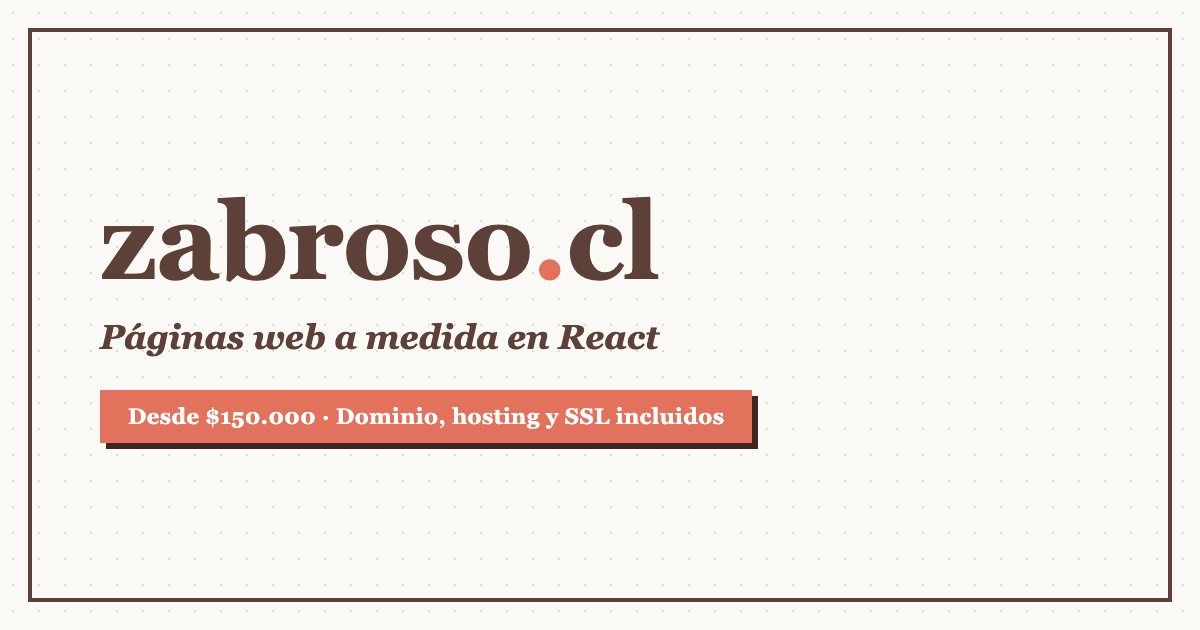
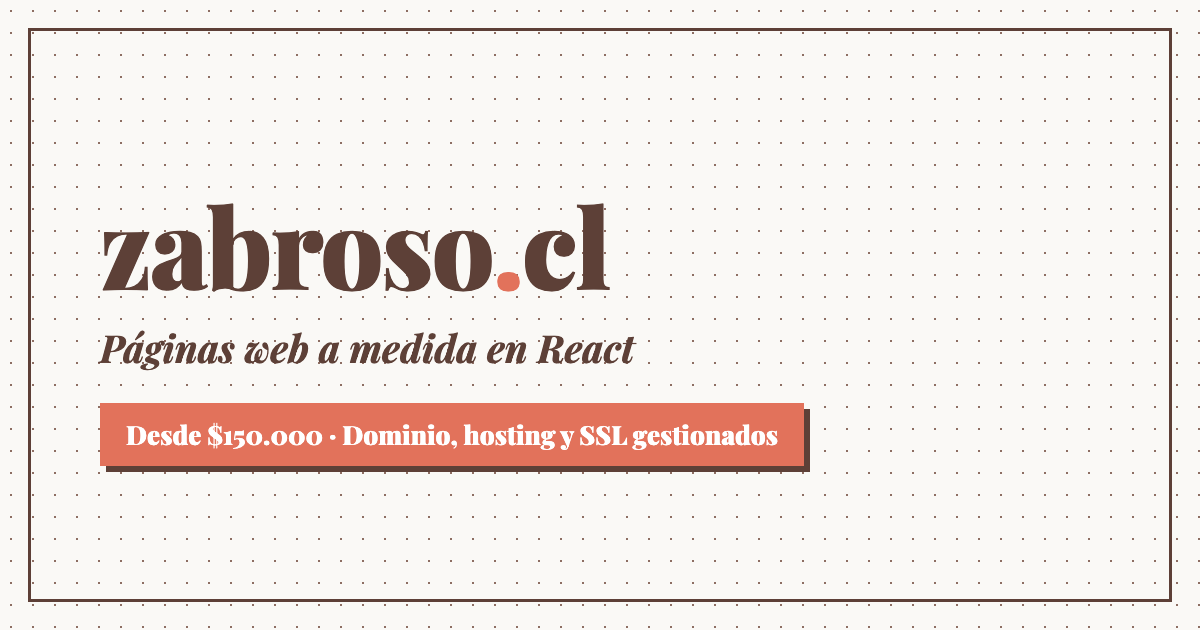
fix(copy): dominio, hosting y SSL son gestionados, no incluidos en el precio
El dominio lo compra y renueva el cliente; el hosting en Cloudflare
Pages y el SSL son gratuitos. Se corrige hero, meta description,
JSON-LD, /sobre/, llms.txt y la imagen OG.

Changed region(s): [[0.0617, 0.5127, 0.6783, 0.754], [0.0617, 0.3016, 0.555, 0.4825]]

diff --git a/index.html b/index.html
@@ -9,7 +9,7 @@
 
     <!-- ── PRIMARY SEO ── -->
     <title>Páginas Web a Medida desde $150.000 | zabroso.cl</title>
-    <meta name="description" content="Desarrollo de páginas web a medida en React, sin plantillas ni builders. Planes desde $150.000, con dominio, hosting y SSL gestionados. Cotiza tu web en Chile.">
+    <meta name="description" content="Páginas web a medida en React, sin plantillas. Planes desde $150.000; gestionamos dominio, hosting y SSL (el dominio lo paga el cliente). Cotiza en Chile.">
     <meta name="keywords" content="desarrollo web Chile, páginas web a medida, landing page Chile, diseño web React, precio página web Chile, Pablo Zabroso">
     <meta name="author" content="Pablo Zabroso">
     <meta name="robots" content="index, follow, max-image-preview:large, max-snippet:-1">
@@ -74,7 +74,7 @@
           "@type": "ProfessionalService",
           "@id": "https://zabroso.cl/#business",
           "name": "zabroso.cl",
-          "description": "Desarrollo de páginas web a medida en React, sin plantillas ni builders. Incluye dominio, hosting y SSL gestionados.",
+          "description": "Desarrollo de páginas web a medida en React, sin plantillas ni builders. Gestión de dominio, hosting y SSL incluida; la compra del dominio la paga el cliente.",
           "url": "https://zabroso.cl/",
           "email": "pablo@zabroso.cl",
           "telephone": "+56949360955",

diff --git a/src/components/Hero.tsx b/src/components/Hero.tsx
@@ -36,7 +36,7 @@ export default function Hero() {
 
           <ul className="rv text-[.85rem] text-muted leading-[1.6] mb-6 max-w-[480px] space-y-1 list-disc pl-5" style={{ transitionDelay: '.14s' }}>
             <li>Páginas web a medida en React, sin plantillas ni builders.</li>
-            <li>Desde $150.000, con dominio, hosting y SSL incluidos.</li>
+            <li>Desde $150.000. Gestionamos dominio, hosting y SSL; la compra del dominio la paga el cliente.</li>
             <li>Garantía de 6 meses, para pymes y profesionales en todo Chile.</li>
           </ul>
 

diff --git a/src/sobre/App.tsx b/src/sobre/App.tsx
@@ -25,7 +25,7 @@ const principios = [
   {
     icon: '💬',
     name: 'Cero responsabilidad técnica para ti',
-    desc: 'Tú validas diseño y contenido. Código, configuración, dominio, SSL y publicación corren por mi cuenta.',
+    desc: 'Tú validas diseño y contenido. Código, configuración del dominio, SSL y publicación los hago yo; la compra del dominio la pagas tú.',
   },
 ]
 
